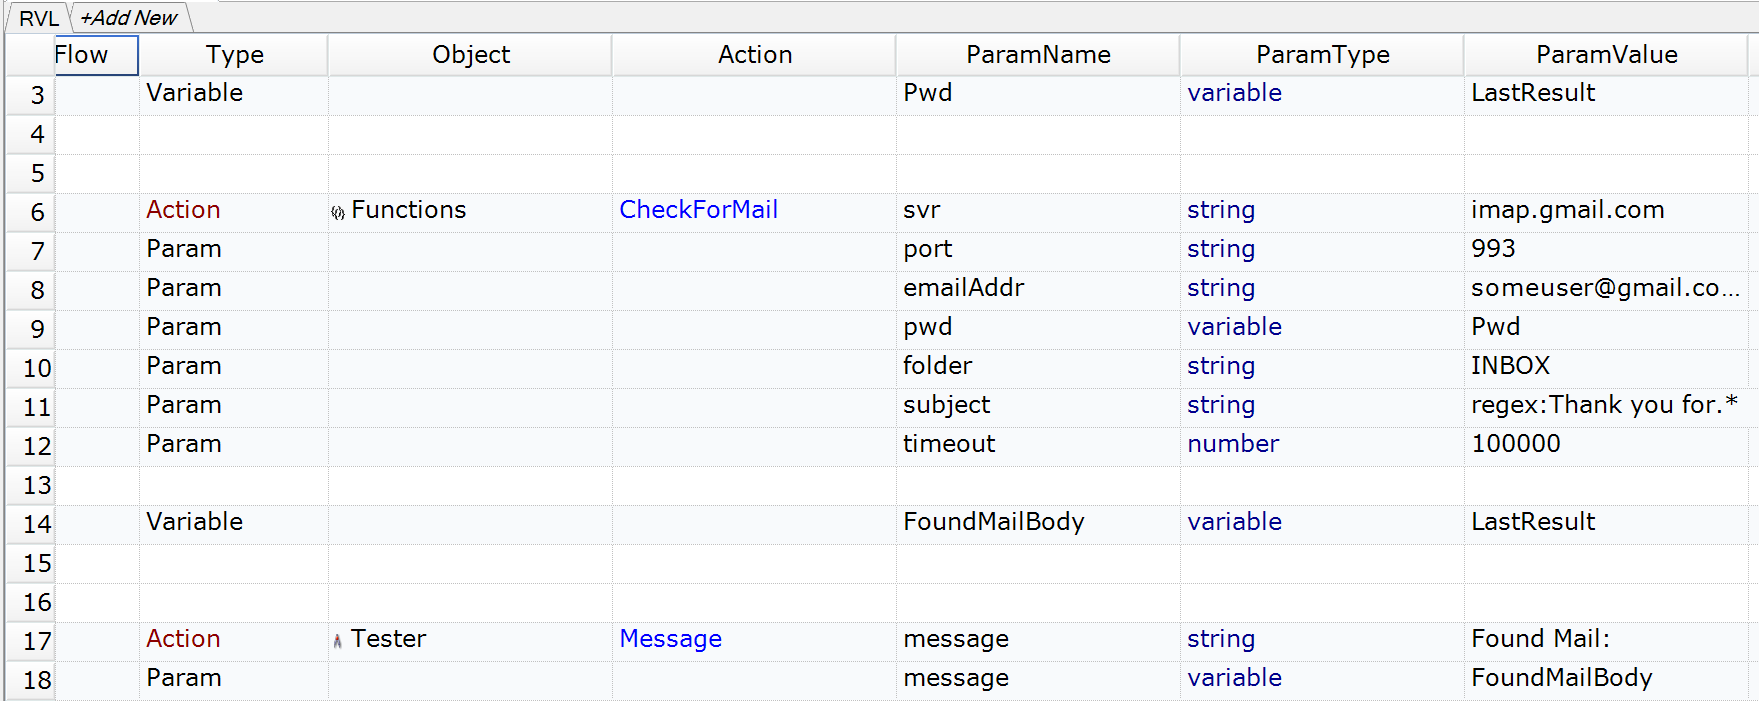
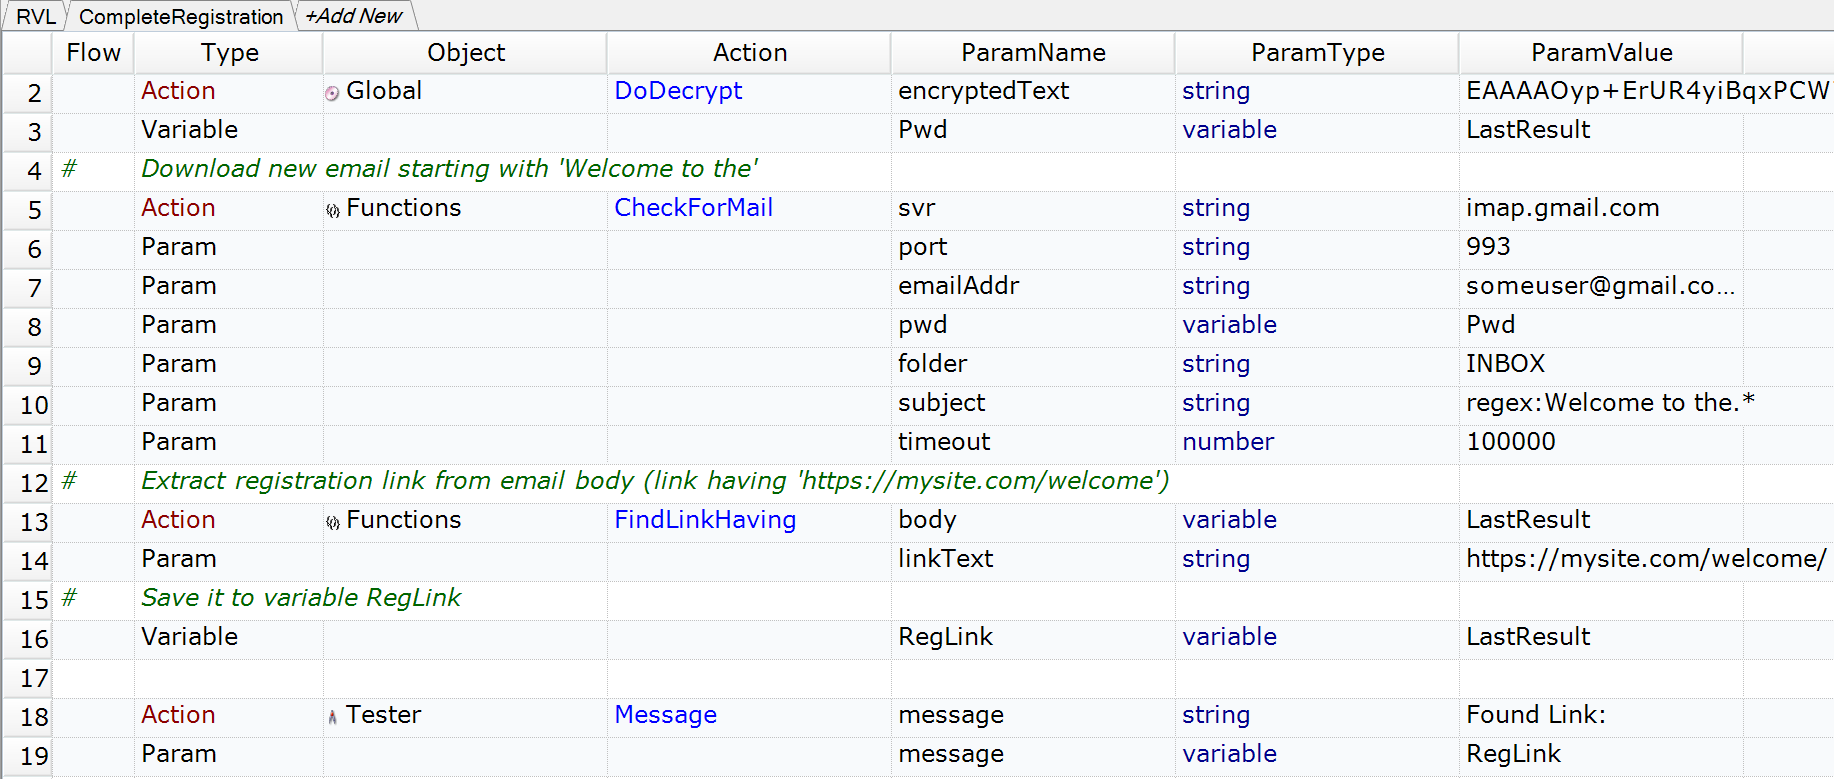
Added 'FindLinkHaving' function

diff --git a/RapiseMailChecker/CheckForMail.js b/RapiseMailChecker/CheckForMail.js
@@ -19,14 +19,6 @@ function CheckForMail(
 	
 	imapSvr = imapSvr || "imap.gmail.com";
 	port = port || 993;
-		
-	var cmd0 = 
-	 'CheckMail.bat';
-	
-	cmd0 = wsh.ExpandEnvironmentStrings(cmd0);
-	
-	Log('cmd0: '+cmd0);
-	var errCode = wsh.Run(cmd0, 3, true);
 
 	var cmd = 
 	 '\"%WORKDIR%RapiseImapClient\\RapiseImapClient.exe\" '
@@ -45,7 +37,6 @@ function CheckForMail(
 	while(msElapsed<timeout)
 	{
 		Log("Checking mailbox: "+emailAddr);
-		Log(""+cmd);
 		var errCode = wsh.Run(cmd, 10, true);
 		if(errCode==0)
 		{
@@ -65,6 +56,35 @@ function CheckForMail(
 	} 
 	
 	Log('Nothing found in mailbox: '+emailAddr);
+	
+	return null;
+}
+
+
+/**
+ * Check 'body' text and extract all links starting form http:// or https:// and return
+ * the first one having 'linkText' as a substring. Return the whole link. Otherwise null is returned.
+ *
+ * Example Usage:
+ *  var link = FindLinkHaving(emailBody, 'https://mysite.com/welcome/');
+ *  
+ */
+function FindLinkHaving(/**string*/body, /**string*/linkText)
+{
+  body = body || "";
+  linkText = linkText || "";
+	var urlRegex = /((https?:\/\/)[^\s]+)/g;
+	var m = null;
+	while(m = urlRegex.exec(body))
+	{
+		// Match found!
+		var res = m[0]; // get first match
+		if(res.indexOf(linkText)>=0)
+		{
+			Log('Found URL: '+res);
+			return res;
+		}
+	}
 	
 	return null;
 }

diff --git a/RapiseMailChecker/README.md b/RapiseMailChecker/README.md
@@ -1,26 +1,12 @@
 # Checking Email in Rapise
 Here you can find simple utility function and method for using it.
 
-## How to Use
-
-You need to get contents of this folder into the root folder of the test so that CheckMail.bat is stored in the root of the tst.
-
-## Using from RVL
-
-![From RVL](Media/CallingFromRvl.png)
-
-
 ## Function
-
-The function searches inbox for an email message matching the specified pattern. 
 
 ````javascript
 /**
  * Check speicified mailbox for a new mail message. We only check unread messages and
  * found messages are marked as read.
- *
- * If message is found then its body text is returned.
- *
  * Please, note that for Gmail mailbox you need to set "Allow less secure apps: ON"
  */
 function CheckForMail(
@@ -33,10 +19,24 @@ function CheckForMail(
 	/**number*/timeout)
 ````
 
+## Using from RVL
+![From RVL](Media/CallingFromRvl.png)
 
+## Extracting Link
+It is common that we need to extract registration link from email text. This code also includes simple function to find such a link:
+
+````javascript
+/**
+ * Check 'body' text and extract all links starting form http:// or https:// and return
+ * the first one having 'linkText' as a substring. Otherwise null is returned.
+ *
+ * Example Usage:
+ *  var link = FindLinkHaving(emailBody, 'https://mysite.com/welcome/');
+ */
+function FindLinkHaving(/**string*/body, /**string*/linkText)
+````
 
 ## Command Line Utility
-
 The function calls a command line utility attached here as an executable.
 
 The command line utility is needed to access IMAP inbox and read an incoming email
@@ -80,14 +80,14 @@ RapiseImapClient /imap:<imapsvr> /port:<port> /user:<emailAddr> /password:<passw
         <file> - path to file to save found message(s) in JSON format
 
 Exit code:
-0 when successfull, 1 - message with UID not found, 2 no connection to mailbox
+0 when successful, 1 - message with UID not found, 2 no connection to mailbox
 
 Examples:
 
 Get unread items for last 3 days:
     RapiseImapClient.exe /imap:imap.gmail.com /port:993 /user:user@gmail.org /password:secret /folder:INBOX /command:list /unread /days:3 /output:file.json
 
-Read item with ID 48:
+Get unread items for last 3 days:
     RapiseImapClient.exe /imap:imap.gmail.com /port:993 /user:user@gmail.org /password:secret /folder:INBOX /command:get /id:148 /output:msg.json
 ````
 
@@ -95,7 +95,7 @@ Read item with ID 48:
 
 There is one special case. If your mailbox is Gmail then 
 
-Google Account -> Sign-in & security -> (scroll to bottom) -> Allow less secure apps: ON
+*Google Account -> Sign-in & security -> (scroll to bottom) -> Allow less secure apps: ON*
 
 ![On](Media/InsecureAccess.png)
 
